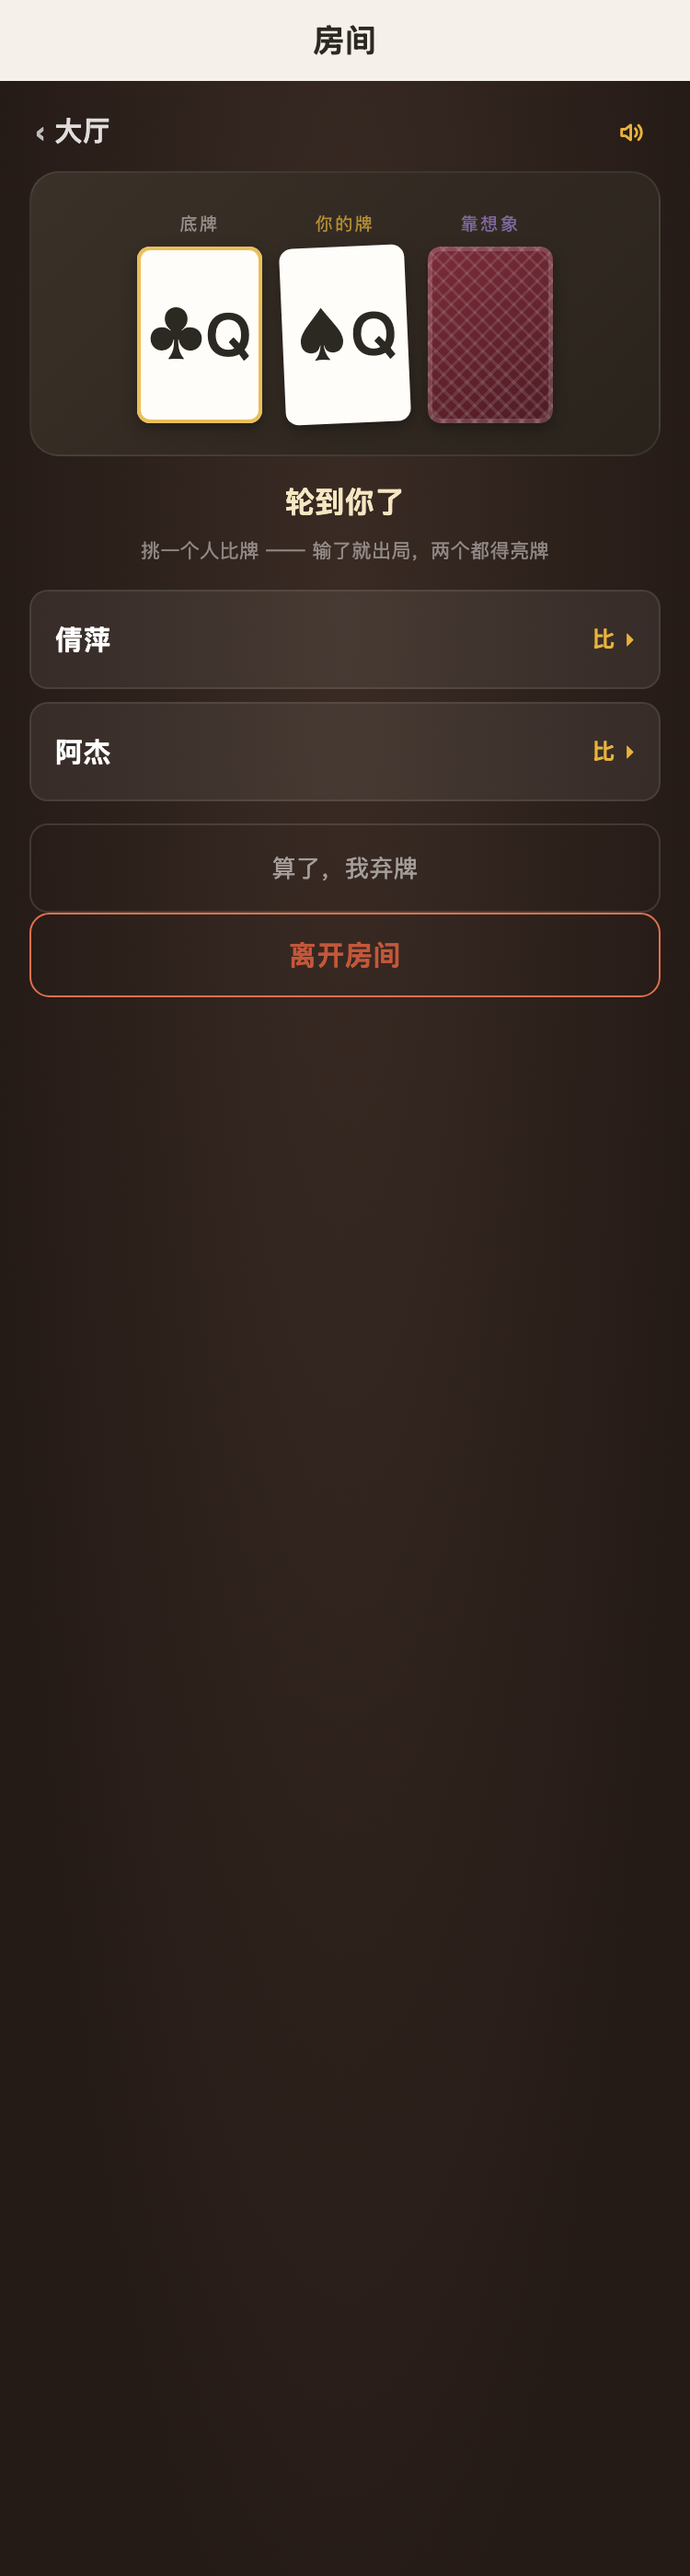
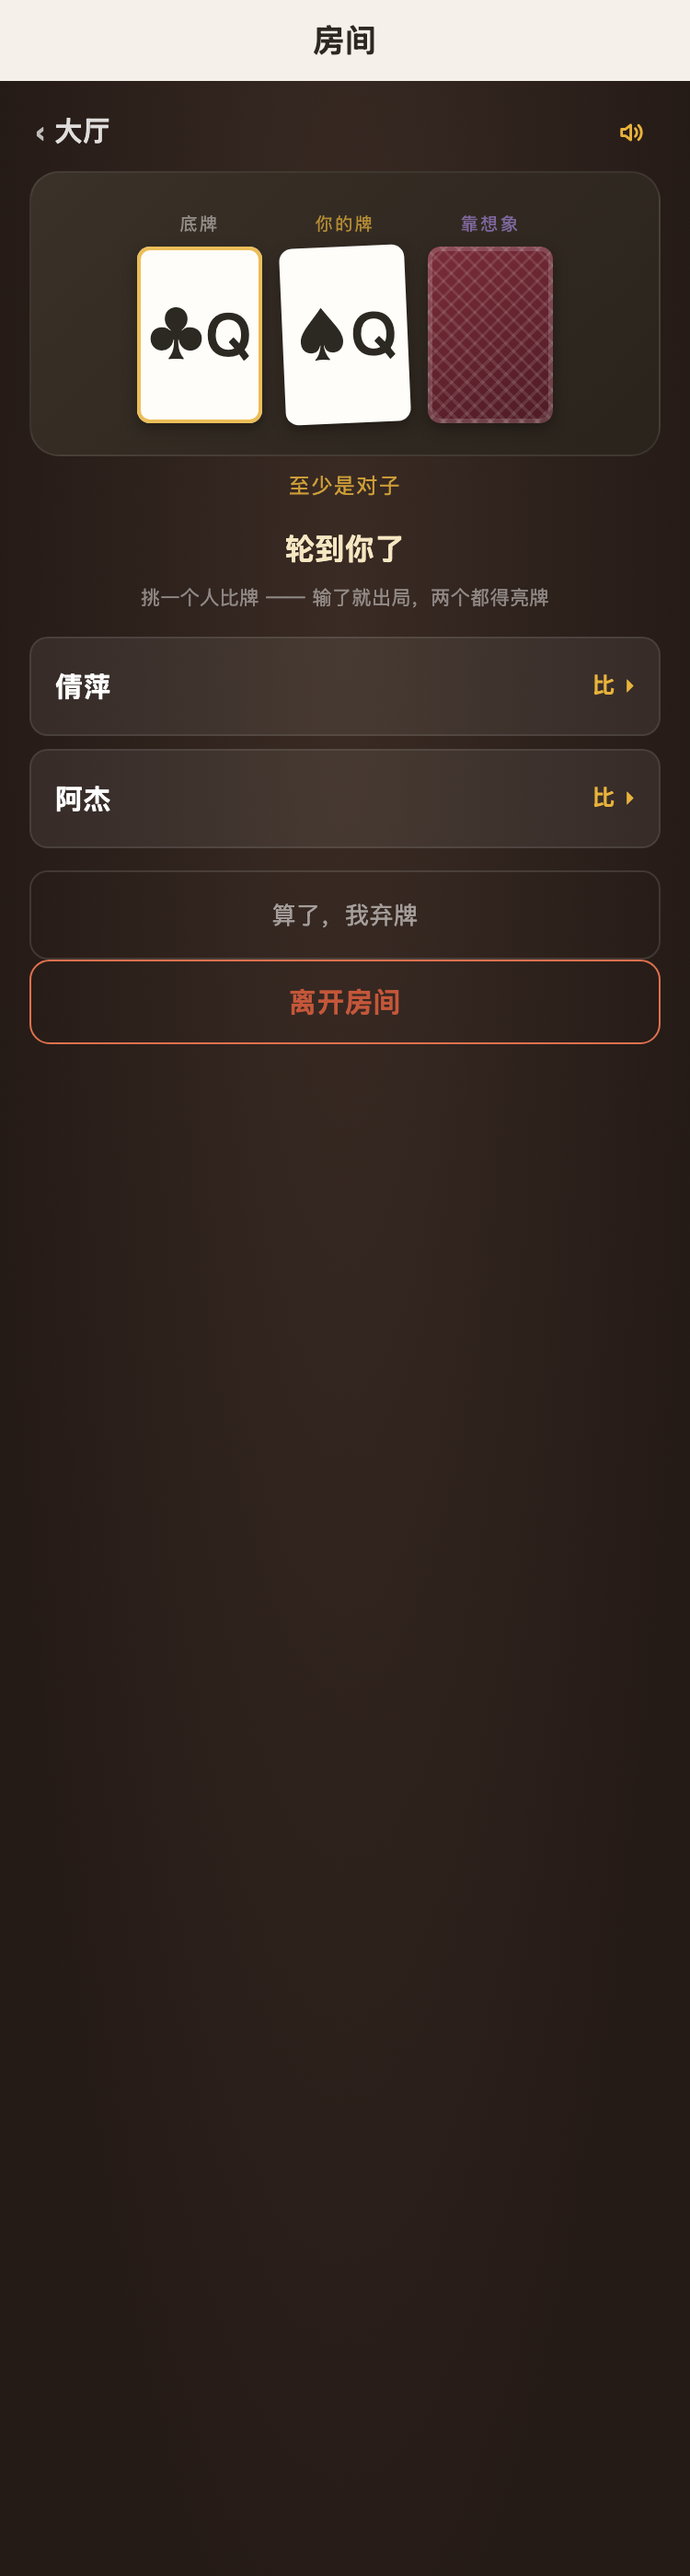
feat(3.9.12): 金花加牌型提示（替玩家做一次心算）
## 为什么要这个

梦幻金花的暗牌**连自己都看不到**，玩家看到公共底牌和明牌之后要做的事是
「这两张能凑出什么」—— 这个心算对多数人很费劲，尤其还喝着酒。

现在牌桌下面给一句：至少是对子 / 有机会顺金 / 有机会金花 / 有机会顺子 / 全靠想象了。

## 三条设计约束

1. **只用玩家本来就看得见的两张**（公共底牌 + 自己的明牌）——
   不含任何暗牌信息，不改变比牌结果，只是把心算替玩家做了一遍。
2. **用"有机会"而不是确切牌型** —— 第三张没看到，任何非确定说法都是错的。
   唯一能确定的是「两张同点数 → 至少是对子」（第三张怎么变都不会更差）。
3. **语气是"给参考"** —— 金色小字、次要视觉重量，不抢牌桌。

## A23 也要算进顺子

`handHint()` 里单独处理了 A 和 2/3 的相连（A23 是第二大顺子），
否则「A + 2」会被判成"全靠想象了"，与实际规则矛盾。已用 6 组用例验证。

## 又一次被"脚本中途抛异常"坑到

第一次改的时候，js 的锚点没匹配上、脚本在 assert 处抛异常，
而 wxml 的替换排在后面 —— **根本没执行到**。
结果 js 有、wxml 没有，界面上什么都不显示。
凡是一个脚本改多个文件，前面的 assert 失败会让后面的静默跳过。

diff --git a/cloudfunctions/room/poker.js b/cloudfunctions/room/poker.js
@@ -176,6 +176,38 @@ function fullHand(publicCard, hand) {
   return [publicCard, hand[0], hand[1]]
 }
 
+/**
+ * 基于**已知的两张**给一句牌型提示（第三张是暗牌，玩家看不到）。
+ *
+ * ★ 为什么需要：梦幻金花的暗牌连自己都看不到，玩家看到公共底牌和自己的明牌
+ *   之后要做的事是"这两张能凑出什么"——而这个心算对多数人很费劲，
+ *   尤其是在酒桌上（还喝着酒）。给一句"至少是对子"能显著降低决策门槛。
+ *
+ * ★ 为什么它不破坏玩法：提示只用**玩家本来就看得见的两张**算，
+ *   不含任何暗牌信息，也不改变比牌结果 —— 它只是把心算替玩家做了一遍。
+ *
+ * ★ 为什么用"有机会"而不是确切牌型：第三张没看到，任何非确定的说法都是错的。
+ *   唯一能确定的只有"两张同点数 → 至少是对子"（第三张怎么变都不会更差）。
+ */
+function handHint(a, b) {
+  if (!a || !b) return ''
+  const sameRank = a.r === b.r
+  const sameSuit = a.s === b.s
+  /* 顺子的可能：两张点数相邻或隔一张（A23 这种特殊相连已在 rank() 里处理，
+     这里只做粗略的"有没有机会"，不需要精确） */
+  const d = Math.abs(a.r - b.r)
+  const nearStraight = d === 1 || d === 2 ||
+    /* A 和 2/3 也能连（A23 是第二大顺子） */
+    (a.r === 13 && (b.r === 1 || b.r === 2)) ||
+    (b.r === 13 && (a.r === 1 || a.r === 2))
+
+  if (sameRank) return '至少是对子'
+  if (sameSuit && nearStraight) return '有机会顺金'
+  if (sameSuit) return '有机会金花'
+  if (nearStraight) return '有机会顺子'
+  return '全靠想象了'
+}
+
 /** 给界面用的牌面文字，如 "♠A" */
 function cardText(c) {
   return SUITS[c.s] + RANKS[c.r]
@@ -184,5 +216,5 @@ function cardText(c) {
 module.exports = {
   SUITS, RANKS, TYPES, TYPE_NAMES,
   newDeck, shuffle, rank, compare, cardText,
-  dealDream, fullHand
+  dealDream, fullHand, handHint
 }

diff --git a/miniprogram/utils/poker.js b/miniprogram/utils/poker.js
@@ -176,6 +176,38 @@ function fullHand(publicCard, hand) {
   return [publicCard, hand[0], hand[1]]
 }
 
+/**
+ * 基于**已知的两张**给一句牌型提示（第三张是暗牌，玩家看不到）。
+ *
+ * ★ 为什么需要：梦幻金花的暗牌连自己都看不到，玩家看到公共底牌和自己的明牌
+ *   之后要做的事是"这两张能凑出什么"——而这个心算对多数人很费劲，
+ *   尤其是在酒桌上（还喝着酒）。给一句"至少是对子"能显著降低决策门槛。
+ *
+ * ★ 为什么它不破坏玩法：提示只用**玩家本来就看得见的两张**算，
+ *   不含任何暗牌信息，也不改变比牌结果 —— 它只是把心算替玩家做了一遍。
+ *
+ * ★ 为什么用"有机会"而不是确切牌型：第三张没看到，任何非确定的说法都是错的。
+ *   唯一能确定的只有"两张同点数 → 至少是对子"（第三张怎么变都不会更差）。
+ */
+function handHint(a, b) {
+  if (!a || !b) return ''
+  const sameRank = a.r === b.r
+  const sameSuit = a.s === b.s
+  /* 顺子的可能：两张点数相邻或隔一张（A23 这种特殊相连已在 rank() 里处理，
+     这里只做粗略的"有没有机会"，不需要精确） */
+  const d = Math.abs(a.r - b.r)
+  const nearStraight = d === 1 || d === 2 ||
+    /* A 和 2/3 也能连（A23 是第二大顺子） */
+    (a.r === 13 && (b.r === 1 || b.r === 2)) ||
+    (b.r === 13 && (a.r === 1 || a.r === 2))
+
+  if (sameRank) return '至少是对子'
+  if (sameSuit && nearStraight) return '有机会顺金'
+  if (sameSuit) return '有机会金花'
+  if (nearStraight) return '有机会顺子'
+  return '全靠想象了'
+}
+
 /** 给界面用的牌面文字，如 "♠A" */
 function cardText(c) {
   return SUITS[c.s] + RANKS[c.r]
@@ -184,5 +216,5 @@ function cardText(c) {
 module.exports = {
   SUITS, RANKS, TYPES, TYPE_NAMES,
   newDeck, shuffle, rank, compare, cardText,
-  dealDream, fullHand
+  dealDream, fullHand, handHint
 }

diff --git a/outputs/ui/room-pkMine.html b/outputs/ui/room-pkMine.html
@@ -1441,10 +1441,17 @@ view, text, button, input, textarea { box-sizing: border-box }
 .pkr-row:last-child { border-bottom: none }
 .pkr-row.out { opacity: .5 }
 .pkr-n { flex: 1; font-size: 12.5px; color: rgba(255,255,255,.85) }
+
 .pkr-c {
-  font-size: 11px; font-weight: 700; color: #2C2822;
-  background: #FFFDF9; border-radius: 3px; padding: 1.5px 4px;
+  display: flex; align-items: center; justify-content: center;
+  width: 30px; height: 42px;
+  flex: none;
+  font-size: 12px; font-weight: 700; color: #2C2822;
+  background: #FFFDF9; border-radius: 4px;
+  box-shadow: 0 1px 3px rgba(0, 0, 0, .22);
+  letter-spacing: -0.5px;
 }
+.pkr-c.pk-red { color: #C4432F }
 
 
 @keyframes slamIn {
@@ -1629,8 +1636,26 @@ view, text, button, input, textarea { box-sizing: border-box }
   animation: slamIn .42s cubic-bezier(.2,.9,.3,1.18) both;
 }
 
-.phx1::placeholder{font-size:14px;font-weight:400;letter-spacing:0.5px;color:#A39B90}
-.phx2::placeholder{font-size:14px;font-weight:400;letter-spacing:0.5px;color:#A39B90}</style>
+
+.uw-cmp {
+  margin-top: 8px;
+  padding: 7px 9px;
+  border: 1px dashed rgba(160, 130, 210, .45);
+  border-radius: 6px;
+  font-size: 11.5px;
+  color: rgba(200, 180, 235, .95);
+}
+
+
+.pk-hint {
+  text-align: center;
+  font-size: 11.5px;
+  color: rgba(232, 179, 60, .85);
+  letter-spacing: 0.5px;
+  margin: -5px 0 var(--gap-2);
+}
+
+</style>
 </head><body>
 <!-- 小程序导航栏（简写近似） -->
 <div style="height:44px;display:flex;align-items:center;justify-content:center;
@@ -1689,7 +1714,7 @@ view, text, button, input, textarea { box-sizing: border-box }
       </div>
 
       
-      
+      <div class="pk-hint">至少是对子</div>
         <div class="pk-now">轮到你了</div>
         <div class="pk-note">挑一个人比牌 —— 输了就出局，两个都得亮牌</div>
         <div class="pk-list">

diff --git a/scripts/test-contract.js b/scripts/test-contract.js
@@ -1384,7 +1384,7 @@ function ok(msg) { n++; console.log('  ✓ ' + msg) }
   const providedRoom = new Set(Object.keys(realRoom.room))
   /* 服务端算的派生字段也要算数（前端 decorate 会补这些） */
   /* 前端 decorate 算的派生字段：服务端不返回，但确实是前端自己赋值的 */
-  ;['myTurn', 'turnName', 'waitingCount', 'waitingNames', 'options', 'settleFoot', 'gameName', 'howList', 'spectating', 'shortBy', 'minPlayers', 'maxPlayers', 'streakText', 'loserBoard', 'uwCompare'].forEach(k => providedRoom.add(k))
+  ;['myTurn', 'turnName', 'waitingCount', 'waitingNames', 'options', 'settleFoot', 'gameName', 'howList', 'spectating', 'shortBy', 'minPlayers', 'maxPlayers', 'streakText', 'loserBoard', 'uwCompare', 'hintText'].forEach(k => providedRoom.add(k))
 
   const stripComments = (s) => s.replace(/<!--[\s\S]*?-->/g, '')
   /* 自己的递归遍历：④ 在顶层 walk/pagesDir 定义之前，不能复用它们 */

diff --git a/miniprogram/pages/room/room.js b/miniprogram/pages/room/room.js
@@ -1014,6 +1014,20 @@ Page({
     }
 
     /*
+     * 金花：牌型提示。
+     *
+     * ★ 只用**玩家本来就看得见的两张**（公共底牌 + 自己的明牌）算 ——
+     *   暗牌连自己都看不到，所以任何非确定的说法都只能是"有机会"。
+     *   唯一能确定的是"两张同点数 → 至少是对子"。
+     *   它替玩家做了一件心算的事，不改变任何规则、不泄露暗牌。
+     */
+    if (room.game === 'poker' && room.poker) {
+      const pub = room.poker.publicCard
+      const mine = room.poker.myKnown
+      room.poker.hintText = (pub && mine) ? poker.handHint(pub, mine) : ''
+    }
+
+    /*
      * 玩法名与规则 —— 从注册表取，不在这里重写一遍文案。
      * ★ 注册表里每个玩法都有 `how: [4 条规则]`，但这一版之前**从来没被渲染过**
      *   （grep `.how` 全仓为 0）—— 16 条文案白写在数据里。

diff --git a/scripts/ui-render/mock/room.js b/scripts/ui-render/mock/room.js
@@ -267,6 +267,8 @@ module.exports = {
         poker: {
           step: 'play', publicCard: PK_PUB, publicText: poker.cardText(PK_PUB),
           myKnown: PK_MINE[1], myKnownText: poker.cardText(PK_MINE[1]),
+          /* 牌型提示走真实函数算，保证和线上一致 */
+          hintText: poker.handHint(PK_PUB, PK_MINE[1]),
           folded: false, aliveCount: 3, myDrink: 0, log: [],
           last: null, winner: null
         }
